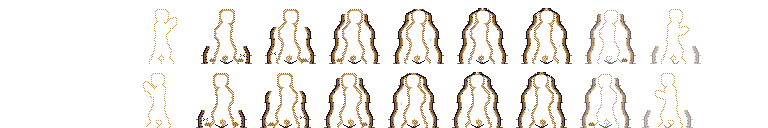
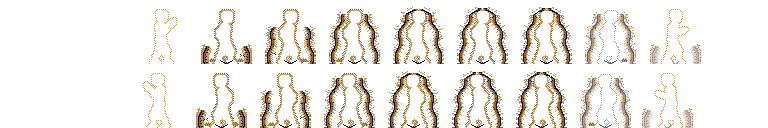
Taurus: Root Sanctuary v2 (root hairs fraying off the rising roots)
Claude-Session: https://claude.ai/code/session_01Szh5tvWBoV8sWZC5WHsRzL

diff --git a/tools/astro.py b/tools/astro.py
@@ -194,10 +194,16 @@ def _dome(f, rx=21, ry=55, crystals=False):   # Root Sanctuary: two gnarled root
             put(x + side, y, 'K'); put(x, y, 'E'); put(x - side, y, 'E'); put(x - 2 * side, y, 'e')
             if i % 23 == 11: put(x - side, y, 'K')
             if i % 31 == 7: put(x - 2 * side, y, 'K')
+            if i % 4 == 2 and i > 4:   # v2 (Christopher 2026-10-28: more root hairs): fine 1 px hairs fraying off both edges, alternating up and down
+                up = (i // 4) % 2; ln = 2 + (i // 4) % 3
+                for j in range(1, ln + 1): put(x + side * (1 + j), y - (j if up else -j) // 2 - (j > 1 and up), 'e' if j < ln else 'u')
+                if i % 8 == 2:
+                    for j in range(1, 3): put(x - side * (2 + j), y + j, 'e')
         for t0, ln in ((0.12, 4), (0.45, 3), (0.85, 3)):   # rootlets kicking out sideways
             if t0 <= f * math.pi / 2:
                 x = cx + side * round(rx * math.cos(t0) + 1.6 * math.sin(t0 * 13)); y = base - round(ry * math.sin(t0))
                 for j in range(1, ln + 1): put(x + side * j, y - j // 2, 'E')
+                put(x + side * (ln + 1), y - ln // 2 - 1, 'e'); put(x + side * (ln + 1), y - ln // 2 + 1, 'e'); put(x + side * (ln - 1), y - ln // 2 + 1, 'u')   # hairs on the rootlet tips
         for j in range(1, 6): put(cx + side * (rx + 1 + j), base - (j > 3), 'E')   # roots spreading along the floor
         if crystals:
             for t0 in (0.3, 0.7, 1.1):
@@ -723,7 +729,7 @@ CLIPS = {
                  6: [('crack1', 'feet', 13, -1), ('dust1', 'feet', 13, -2), ('rocks', 'hand', 3, 12)],
                  7: [('crack1', 'feet', 13, -1, {'alpha': {'K': 130, 'E': 130}})]})),
  'rootSanctuary': ('Root Sanctuary', 5,
-  'Root Sanctuary (Taurus ninjutsu self buff, FORT +20% 2 rounds: the fighter forms a rooted earthen sanctuary around itself, reinforcing its body): from the guard the fighter makes the seal at the chin and sinks into its knees, eyes closing, an earthen aura rising round it; then it drives both fists down beside its hips and the floor cracks open either side of it: two gnarled roots burst up out of the cracks, rootlets kicking out sideways and runners spreading along the floor, and climb either side of the fighter, arching inward over its head until they meet in a dome, teal crystal budding along them as they close; it holds inside the sanctuary, unmoving, crystal glinting, then the roots sink back into the floor and it rises back into the guard (the spec proposes a faint ring of roots at the feet while the buff lasts).', [
+  'Root Sanctuary (Taurus ninjutsu self buff, FORT +20% 2 rounds: the fighter forms a rooted earthen sanctuary around itself, reinforcing its body), v2 (Christopher 2026-10-28: more root hairs on the rising roots): from the guard the fighter makes the seal at the chin and sinks into its knees, eyes closing, an earthen aura rising round it; then it drives both fists down beside its hips and the floor cracks open either side of it: two gnarled roots burst up out of the cracks, rootlets kicking out sideways and runners spreading along the floor, and climb either side of the fighter, arching inward over its head until they meet in a dome, teal crystal budding along them as they close; it holds inside the sanctuary, unmoving, crystal glinting, then the roots sink back into the floor and it rises back into the guard (the spec proposes a faint ring of roots at the feet while the buff lasts).', [
      g(),
      g(an=U.SEAL_N, af=U.SEAL_F, bob=(1, 1, 1), lean=(0, 0)),
      g(an=U.SEAL_N, af=U.SEAL_F, bob=(2, 2, 2), lean=(0, 0), **LOW),
